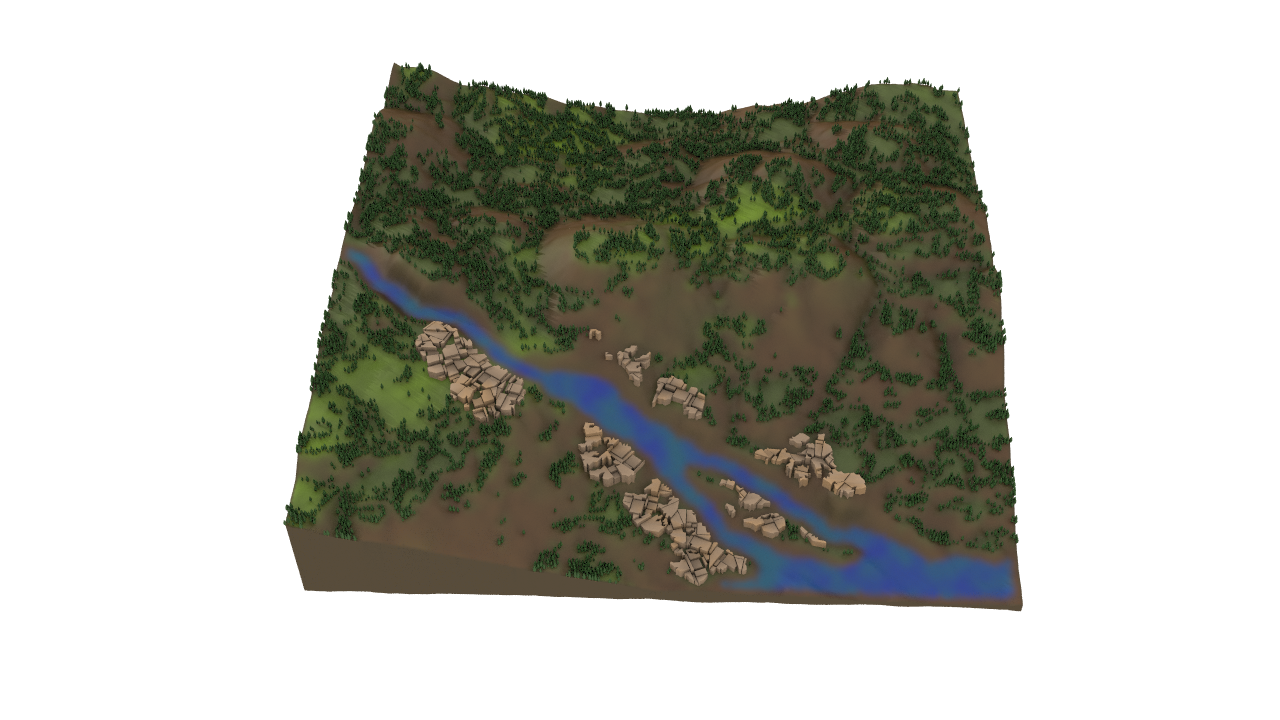
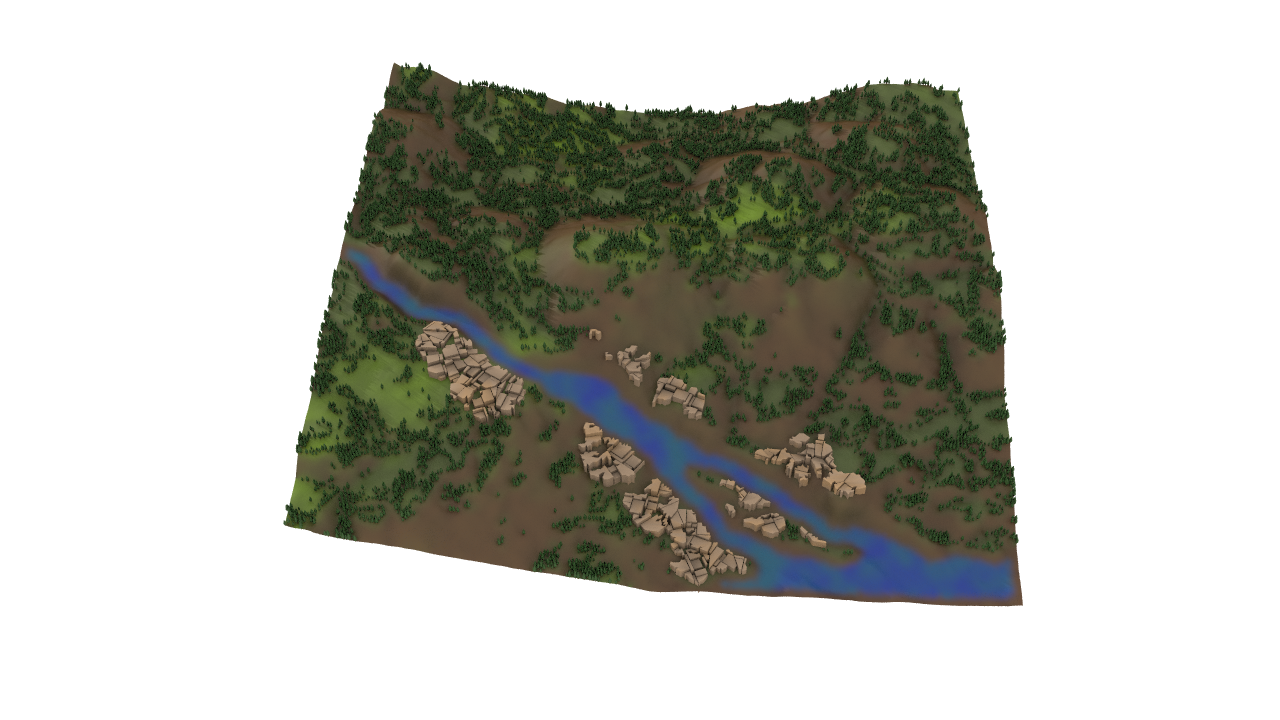
updated procedural-terrain file

Changed region(s): [[0.2188, 0.7333, 0.8125, 0.8556]]

diff --git a/docs/portfolio-archive/procedural-terrain.md b/docs/portfolio-archive/procedural-terrain.md
@@ -1,58 +1,87 @@
 ---
 title: Procedural Terrain System
-description: Terrain generator with flattening, and slope-aware scattering.
+description: Node-based terrain generation with slope-aware masks, settlement flattening, and art-directable controls.
 category: Terrain
 categoryOrder: 1
 order: 1
 tags: [Houdini, Procedural, Terrain]
+cover: "/portfolio/procedural-land-02-8-final.png"
+mediaPreview: "hover"
+videoEmbed: ""
 ---
 
 # Procedural Terrain System
-![Preview](/portfolio/procedural-terrain.png)
 
+A reusable terrain-authoring setup in Houdini for quickly building believable environments while keeping strong artistic control.
 
-procedural
-final
-before: procedural-land-02-1-heightmap.png
-after: procedural-land-02-8-final.png
-
-heightmap
-procedural-land-02-1-heightmap.png
-
-slopemap
-procedural-land-02-2-slopemap.png
-
-rivermask
-procedural-land-02-3-rivermask.png
-
-treemask
-before: procedural-land-02-4-treemask.png
-after: procedural-land-02-5-treemask.png
-
-settlement
-before: procedural-land-02-6-settlement.png
-after: procedural-land-02-8-final.png
-
-A procedural terrain workflow for building environments quickly while preserving artistic control.
+<BeforeAfterSlider
+  before-src="/portfolio/procedural-land-02-1-heightmap.png"
+  after-src="/portfolio/procedural-land-02-8-final.png"
+  before-alt="Initial tree distribution mask"
+  after-alt="Refined tree distribution mask"
+  height="360px"
+  :initial="45"
+/>
 
 ## Problem
-Creating terrain by hand for every scene made iteration slow and inconsistent. It was difficult to:
-- Maintain a cohesive look across multiple environments
-- Populate terrain with vegetation and props in a way that respected slope and readability
+
+Manually sculpting each environment was slow and inconsistent. The key production issues were:
+
+- Rebuilding similar terrain structures from scratch for each level.
+- Keeping road, settlement, and playable-area surfaces readable.
+- Distributing vegetation and props in a way that respected terrain slope.
 
 ## Approach
-I built a node-based terrain generation system that combined controlled randomness with artist-friendly overrides:
-1. **Baseform generation** to establish macro shapes and visual rhythm
-2. **Flattening operators** for roads, buildings, and points of interest
-3. **Slope-aware masking** to drive biome placement and prop density
 
-This structure enabled fast exploration while still allowing targeted edits when a scene required specific composition beats.
+I built a modular heightfield workflow in Houdini with a clear processing order:
+
+1. **Base Heightfield** – establish macro landforms and overall silhouette.
+2. **Derived Masks** – generate slope, river, and vegetation masks from terrain attributes.
+3. **Settlement Flattening** – carve and level specific gameplay/readability zones.
+4. **Art-Direction Pass** – expose tunable parameters for quick non-destructive iteration.
+
+This structure makes it easy to iterate globally while still allowing local overrides when needed.
+
+## Terrain Build Breakdown
+
+![Terrain heightmap stage](/portfolio/procedural-land-02-1-heightmap.png)
+Primary elevation definition that drives downstream masks and procedural operations.
+
+![Terrain slopemap stage](/portfolio/procedural-land-02-2-slopemap.png)
+Slope-based mask used to control where vegetation, props, and traversal-friendly surfaces should appear.
+
+![Terrain rivermask stage](/portfolio/procedural-land-02-3-rivermask.png)
+Hydrology mask used to shape drainage lines and protect water-adjacent terrain behavior.
+
+<BeforeAfterSlider
+  before-src="/portfolio/procedural-land-02-4-treemask.png"
+  after-src="/portfolio/procedural-land-02-5-treemask.png"
+  before-alt="Initial tree distribution mask"
+  after-alt="Refined tree distribution mask"
+  height="360px"
+  :initial="45"
+/>
+Vegetation Mask - Before/after refinement for cleaner biome boundaries and more natural vegetation clustering.
+
+<BeforeAfterSlider
+  before-src="/portfolio/procedural-land-02-6-settlement.png"
+  after-src="/portfolio/procedural-land-02-8-final.png"
+  before-alt="Terrain before final settlement and polish"
+  after-alt="Final terrain with settlement integration"
+  height="420px"
+  :initial="50"
+/>
+Settlement - Final pass combines flattening, mask-driven scattering, and composition polish.
 
 ## Tools
-- **Houdini**
+
+- **Houdini** (HeightField workflow and procedural controls)
 
 ## Result
-The system reduced environment setup time and made look development more consistent. It produced readable terrains with:
-- More predictable art direction outcomes
-- Faster iteration on layout and landmark placement
-- Cleaner procedural distribution of vegetation and props based on slope and terrain rules
+
+The system substantially improved environment iteration speed and consistency across scenes:
+
+- Faster setup for new terrain variants.
+- More predictable art direction outcomes.
+- Cleaner, rule-driven distribution of vegetation and props.
+- Better readability around settlements and gameplay-critical areas.